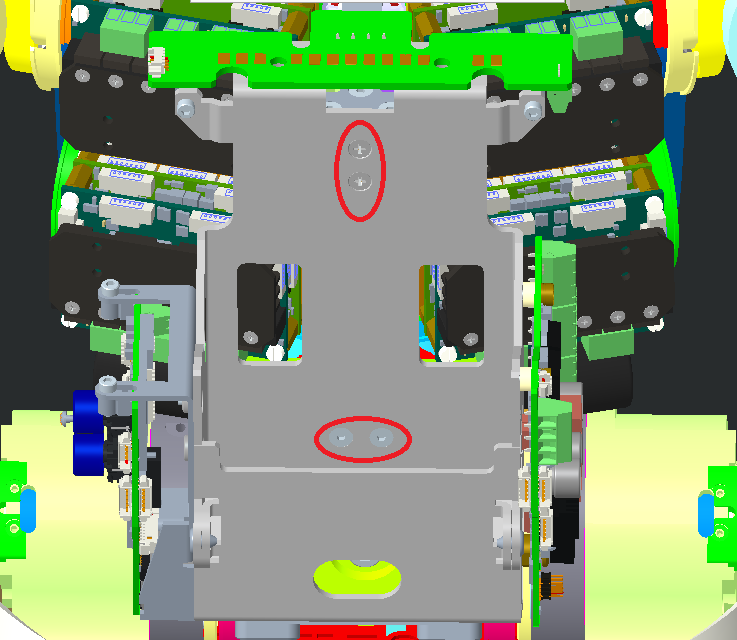
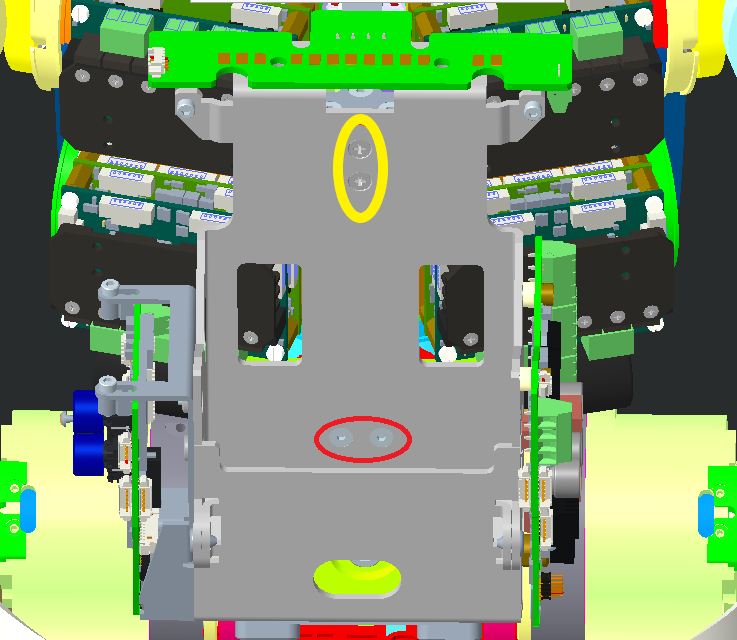
almost finish the instruction for cable 11 to 13

Changed region(s): [[0.4369, 0.1562, 0.5305, 0.3438]]

diff --git a/mkdocs/tendons_icub/docs/waist_legs.md b/mkdocs/tendons_icub/docs/waist_legs.md
@@ -39,28 +39,21 @@
 
 > This chapter describes the steps required for the wiring of the cables 11 - 12 - 13 which allow the movement of the waist of the robot, both during construction and in maintenance/repair phase.[<i class="fa fa-flag fa-1x"></i> **ITA**](italiano.md#position013)
 
+!!!note "VERY IMPORTANT NOTE"
+    If you have only the cable 12 broken please proceed directly to [2.3](#23-waist-front-cable-12)
 
+> Whatever the other cases of figure you run into, the only way to substitute/replace the broken cables is to follow the next steps.
 
 ### 2.1	CHEST, BACK and BACK PACK COVERS DISMOUNTING
-
-Whatever the situation you run into, the only way to proceed with the future explanations is get to a starting point that will allow you to proceed with a step by step guide later on.
-
-**HOW TO BE IN SITUATION TO START ROUTING**
-
-| normal state of robot | starting point for wiring |
-| --------------------- | ------------------------- |
-|                       |                           |
 
 
 
 **A - CHEST cover removal**
 
-| pictures | step by step guide                                           |
-| -------- | ------------------------------------------------------------ |
-|          | <u>STEP 1:</u><br/>remove the 6 screws (3 on each side of the skin patch above the chest cover)<br/>if you do not have the skin on torso go on to the nest step. |
-|          | <u>STEP 2:</u><br/>flip the skin in order to access the 2 screws beneath it.<br/>Remove the 2 screws M2xX |
-|          | <u>STEP 3:</u><br/>hold the chest cover and remove the 2 crews at the level of the shoulder<br/> |
-|          | <u>STEP 4:</u><br/>disconnect the the electrical cable connecting the robot to the skin board inside the cover |
+| pictures                                             | step by step guide                                           |
+| ---------------------------------------------------- | ------------------------------------------------------------ |
+| <img src="/img/waist/chest-screws1.png" width = 300> | <u>STEP 1:</u><br/>remove the 6 screws M2x5 (red arrows)<br/> (3 on each side of the skin patch of the chest cover)<br/>If you do not have skin on torso cover go on to the next step.<br/><br/><u>STEP 2:</u><br/>flip over the skin in order to access<br/> the 2 screws beneath it.<br/>Remove the 2 screws M3x6<br/><br/><u>STEP 3:</u><br/>hold the chest cover and remove the 2 crews M3x8 at the level of the shoulder (green circles)<br/><br/> |
+| pictures of the connector                            | <u>STEP 4:</u><br/>disconnect the the electrical cable connecting the robot to the skin board inside the cover<br/>If you do not have skin on torso cover go on to the next step. |
 
 
 
@@ -69,34 +62,61 @@ Whatever the situation you run into, the only way to proceed with the future exp
 
 **B1 - NO BACKPACK VERSION**
 
-| pictures                                                     | step by step guide                                           |
-| ------------------------------------------------------------ | ------------------------------------------------------------ |
-|                                                              | <u>STEP 1:</u><br/>disconnect the power cord from the back of iCub |
-|                                                              | <u>STEP 2:</u><br/>remove the 4 screws to be able to move sideways the back cover |
-| -> picture of the 4 screws to remove to be able to move sideways the back c0ver | <center><u>Final State</u><br/></center>                     |
+| pictures                                            | step by step guide                                           |
+| --------------------------------------------------- | ------------------------------------------------------------ |
+| <img src="/img/waist/torso-screws.png" width = 300> | <u>STEP 1:</u><br/>Unscrew the power cord on the back of iCub (black circle)<br/><u>STEP 2:</u><br/>Remove the 2 ring screws (green circles)<br/><u>STEP 3:</u><br/>remove the 4 screws M3x6 to be able to move sideways the back cover |
 
 **B2 - BACKPACK VERSION**
 
-| pictures                                        | step by step guide                                           |
-| ----------------------------------------------- | ------------------------------------------------------------ |
-|                                                 | <u>STEP 1:</u><br/> disconnect the overall cables attached to the back pack -> |
-|                                                 | <u>STEP 2:</u><br/>remove the top cover of the back pack     |
-|                                                 | <u>STEP 3:</u><br/>remove the battery pack (real or dummy either way). -> photo |
-|                                                 | <u>STEP 4:</u><br/>remove the buttons' cache - remove the screw -> photo |
-|                                                 | <u>STEP 5:</u><br/>loose the 2 screws holding the switches/ethernet board and push it inwards |
-|                                                 | <u>STEP 6:</u><br/>remove the stand off buttons              |
-|                                                 | <u>STEP 7:</u><br/>remove the 6 screws holding the back pack in place -> photo CAD |
-|                                                 | <u>STEP 8:</u><br/>remove the backpack -> gif                |
-|                                                 | watch out!!!                                                 |
-|                                                 | <u>STEP 9:</u><br/>disconnect the 3 connectors (2 on switch board - for the power of the 2 fans- and 1 on power board) |
-|                                                 | <u>STEP 10:</u><br/>cut the tie wrap -> the back cover can be left away until we will need to remount it |
-|                                                 | <u>STEP 11:</u><br/>remove the 4 screws holding the battery pack holder -> the holder can move almost freely |
-| FINISH                                          | You are now able to untighten the 2 screws tensioning the cable 13 |
-| -> picture of the space that need to be created |                                                              |
+| pictures                                                     | step by step guide                                           |
+| ------------------------------------------------------------ | ------------------------------------------------------------ |
+| picture of robot with connections                            | <u>STEP 1:</u><br/> disconnect the overall cables attached to the back pack -> |
+| <img src="/img/waist/top-bp-cover.png" width = 300>          | <u>STEP 2:</u><br/>remove the top cover of the back pack<br/>some version have a screw in the yellow circle some just a magnet<br/>If you are a screw version - remove it and just flip the cover and you are done. |
+| <img src="/img/waist/btp-screws-real.png" width = 300><br/><img src="/img/waist/btp-screws-dummy.png" width = 300> | <u>STEP 3:</u><br/>Either you use the <u>real</u> battery pack<br/>-> untighten the 2 lateral screws<br/>or the <u>dummy</u> battery pack<br/>-> remove the 2 lateral screw M2.5x10. |
+| <img src="/img/waist/bp-buttons.png" width = 300>            | <u>STEP 4:</u><br/>remove the buttons' cache by unmounting the screw M2x6 |
+| <img src="/img/waist/bp-power-board.png" width = 300>        | <u>STEP 5:</u><br/>loose the 2 screws M2.5x8 holding the switches/ethernet board<br/> and push it inwards<br />**!!!NEED PICTURE TO SHOW THAT!!!** |
+| <img src="/img/waist/stand-offs.png" width = 300>            | <u>STEP 6:</u><br/>On the previous mention board, try to pop out the stand-off <br/>above the 2 push buttons.<br/>they will be in the way when we will try to remove<br/> the backpack cover later on, we may break them<br/> if remove wrongly |
+| <img src="/img/waist/bp-screws.png" width = 300>             | <u>STEP 7:</u><br/>remove the 4 screws (red circles) holding the back pack in place.<br/>NECK : 2 M3x8Theoritically, you should already have removed the 2 ring screws<br/>but of you forget, please do it now!! |
+|                                                              | <u>STEP 8:</u><br/>remove the backpack -> gif                |
+|                                                              | watch out!!!                                                 |
+| **PHOTO**                                                    | <u>STEP 9:</u><br/>disconnect the 3 connectors (2 on switch board - for the power of the 2 fans- and 1 on power board) |
+| **PHOTO**                                                    | <u>STEP 10:</u><br/>cut the tie wrap -> the back cover can be left away until we will need to remount it |
+| <img src="/img/waist/btp_holder-screws.png" width = 300>     | <u>STEP 11:</u><br/>remove the 4 screws holding the battery pack holder.<br/>2 screws M3x8 (yellow circle)<br/>2 screws M3x6 (red circle)<br/>!!! the battery pack holder can move almost freely from now on !!! |
+
+YOU would probably asking me why did we need to remove all of this for?
+And the answer is that unfortunately the cover are preventing us for either tense the cables or access to some pieces.
+
+IF YOU HAVE **<u>ONLY</u>**CABLE 13 BROKEN JUST GO DIRECTLY [HERE](#24-waist-top-cable-13)
+
+#### C - remove the back pulley
+
+!!!WATCH OUT
+    once the pulley or one side of the cable 13 is remove the rotation of the torso is totally free, someone else help is more than appreciated to hold it firm.
+
+| what we have                               | what we want                               |
+| ------------------------------------------ | ------------------------------------------ |
+| <img src="/img/waist/WWH.png" width = 500> | <img src="/img/waist/WWW.png" width = 500> |
 
 
 
-IF YOU HAVE CABLE 13 BROKEN JUST GO DIRECTLY TO [13](#2.4-waist-top-cable-13)
+| pictures                                                   | step by step guide                                           |
+| ---------------------------------------------------------- | ------------------------------------------------------------ |
+| <img src="/img/waist/cable13-tens-screws.png" width = 500> | <u>STEP 1:</u><br/>loose the screws inside of the tensioners<br/>to get some slack on the cable.<br/>You should be able to make he cable jump around the |
+| <img src="/img/waist/pulley13.png" width = 500>            | <u>STEP 2:</u><br/>You should be able to make the cable jump over the pulley |
+| <img src="/img/waist/screw13.png" width = 500>             | <u>STEP 3:</u><br/>Remove the central screw of this pulley RC_TLR_001_P_243 |
+|                                                            | <u>STEP 4:</u><br/>Use 2 fat flat screwdrivers to make the pulley popping up.<br/>**-> photo needed** |
+
+
+
+#### D- create the require space
+
+| pictures                                               | step by step guide                                           |
+| ------------------------------------------------------ | ------------------------------------------------------------ |
+| <img src="/img/waist/space11.png" width = 500>         | In order to change the cable 11, <br/> it is necessary, when you still have the upper body attached to the robot <br/> to create some space in between those 2 pieces to be able to fit the cable that you need to replace. |
+| <img src="/img/waist/plate11.png" width = 500>         | <u>STEP 1:</u><br/>Remove the central piece which will hold the cable 11.<br/> 4 scews M |
+| <img src="/img/waist/unmount11-back.png" width = 500>  | <u>STEP 2:</u><br/>Untighten just enough to have 2mm gap in between the head screw and the plate |
+| <img src="/img/waist/unmount11-front.png" width = 500> | <u>STEP 3:</u><br/>Untighten just enough to have 2mm gap in between the head screw and the plate |
+| <img src="./img/waist/R-side11.png" width = 500><br/>  | <u>STEP 4:</u><br/>You should be able to move slightly the upper body from the torso and create some space. |
 
 
 
@@ -104,15 +124,7 @@ IF YOU HAVE CABLE 13 BROKEN JUST GO DIRECTLY TO [13](#2.4-waist-top-cable-13)
 
 <center>![waist](img\waist\Waist_cable_11.png)</center>
 !!! WARNING
-    routing cable 11 is quite simple in process of construction because you don't have yet the upper body mounted atop of the waist BUT become particularly tedious in phase of repair due to the presence of this latter. GO TO UPPER [link](#2.1-chest-back-and-back-pack-covers-dismounting)
-
-**HOW TO BE IN SITUATION TO START ROUTING**
-
-| normal state of robot | starting point for wiring |
-| --------------------- | ------------------------- |
-|                       |                           |
-
-
+    routing cable 11 is quite simple in process of construction because you don't have yet the upper body mounted atop of the waist BUT become particularly tedious in phase of repair due to the presence of this latter. GO TO UPPER [link](#21-chest-back-and-back-pack-covers-dismounting) if you didn't remove the cover above the torso or the back/backpack cover
 
 
 
@@ -122,10 +134,18 @@ IF YOU HAVE CABLE 13 BROKEN JUST GO DIRECTLY TO [13](#2.4-waist-top-cable-13)
 > [<i class="fa fa-flag fa-1x"></i> **ITA**](italiano.md#position015)
 
 <center>![waist](img\waist\Waist_cable_11_foto.png)</center>
+
+
+**E- RE-ASSEMBLE the upper body by retightening the 4 screws we had to lose to create the space to pas cable 11.**
+
+
+
 > Turn the cable around the pulley taking care to cross it at the opposite side of the plate (Photo 3 - 4).
 > [<i class="fa fa-flag fa-1x"></i> **ITA**](italiano.md#position016)
 
 <center>![waist](img\waist\Waist_cable_11_foto3_4.png)</center>
+
+
 > Each side of the cable go up and pass into the little side pulley (Photo 5 - 6)
 > [<i class="fa fa-flag fa-1x"></i> **ITA**](italiano.md#position017)
 
